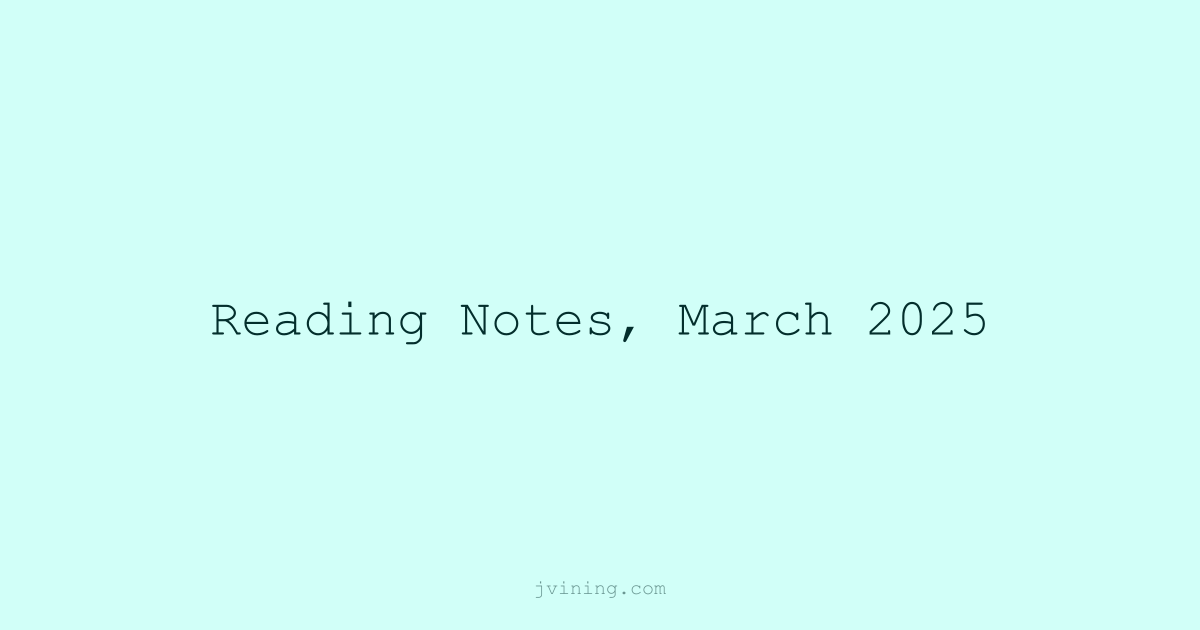
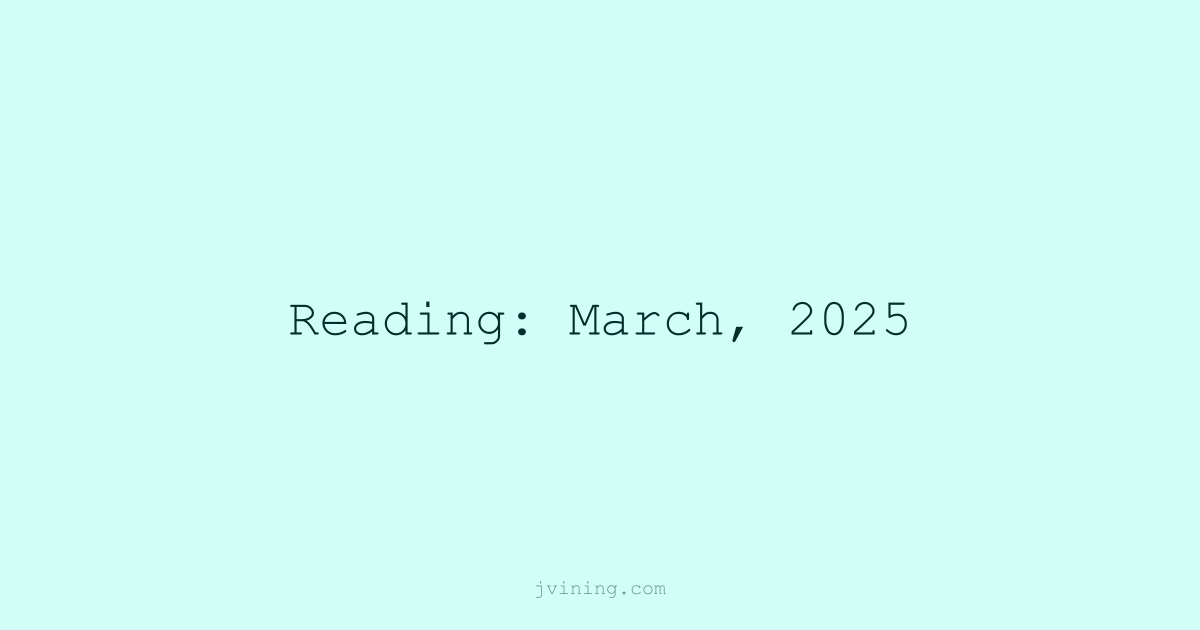
Update reading title format

Changed region(s): [[0.1542, 0.4825, 0.8325, 0.5429]]

diff --git a/_pages/index.html b/_pages/index.html
@@ -20,7 +20,7 @@ sitemap: false
     <table class="article-list">
         <tr>
             <td class="date-cell"><span class="date">8/30/26</span></td>
-            <td class="title-cell"><a href="reading/puritans.html">Reading Notes: Two Books on Puritans</a><br><small class="book-titles">The Puritans: A Transatlantic History, The Trials of Thomas Morton</small></td>
+            <td class="title-cell"><a href="reading/puritans.html">Reading: Two Books on Puritans</a><br><small class="book-titles">The Puritans: A Transatlantic History, The Trials of Thomas Morton</small></td>
         </tr>
         <tr>
             <td class="date-cell"><span class="date">4/19/26</span></td>
@@ -32,15 +32,15 @@ sitemap: false
         </tr>
         <tr>
             <td class="date-cell"><span class="date">1/8/26</span></td>
-            <td class="title-cell"><a href="reading/2025-06.html">June 2025</a><br><small class="book-titles">Essentialism, The House of Morgan, Tinker Tailor Soldier Spy</small></td>
+            <td class="title-cell"><a href="reading/2025-06.html">Reading: June, 2025</a><br><small class="book-titles">Essentialism, The House of Morgan, Tinker Tailor Soldier Spy</small></td>
         </tr>
         <tr>
             <td class="date-cell"><span class="date">12/7/25</span></td>
-            <td class="title-cell"><a href="reading/2025-05.html">May 2025</a><br><small class="book-titles">Milton Friedman, The Complacent Class, Call for the Dead, A Murder of Quality, The Spy Who Came In From The Cold, The Looking Glass War</small></td>
+            <td class="title-cell"><a href="reading/2025-05.html">Reading: May, 2025</a><br><small class="book-titles">Milton Friedman, The Complacent Class, Call for the Dead, A Murder of Quality, The Spy Who Came In From The Cold, The Looking Glass War</small></td>
         </tr>
         <tr>
             <td class="date-cell"><span class="date">9/19/25</span></td>
-            <td class="title-cell"><a href="reading/2025-04.html">April 2025</a><br><small class="book-titles">Oranges are Not the Only Fruit, Heart of a Dog, Days of Rage, Arsenals of Folly, The Cold War, A Perfect Spy</small></td>
+            <td class="title-cell"><a href="reading/2025-04.html">Reading: April, 2025</a><br><small class="book-titles">Oranges are Not the Only Fruit, Heart of a Dog, Days of Rage, Arsenals of Folly, The Cold War, A Perfect Spy</small></td>
         </tr>
         <tr>
             <td class="date-cell"><span class="date">9/16/25</span></td>
@@ -48,15 +48,15 @@ sitemap: false
         </tr>
         <tr>
             <td class="date-cell"><span class="date">4/26/25</span></td>
-            <td class="title-cell"><a href="reading/2025-03.html">March 2025</a><br><small class="book-titles">The Master and Margarita, The Future and Its Enemies, Abundance, Why Nothing Works, Bloodlands, Children of Men</small></td>
+            <td class="title-cell"><a href="reading/2025-03.html">Reading: March, 2025</a><br><small class="book-titles">The Master and Margarita, The Future and Its Enemies, Abundance, Why Nothing Works, Bloodlands, Children of Men</small></td>
         </tr>
         <tr>
             <td class="date-cell"><span class="date">3/4/25</span></td>
-            <td class="title-cell"><a href="reading/2025-02.html">February 2025</a><br><small class="book-titles">Those Who Leave and Those Who Stay, The Story of the Lost Child, Stalin Volume II, Characters</small></td>
+            <td class="title-cell"><a href="reading/2025-02.html">Reading: February, 2025</a><br><small class="book-titles">Those Who Leave and Those Who Stay, The Story of the Lost Child, Stalin Volume II, Characters</small></td>
         </tr>
         <tr>
             <td class="date-cell"><span class="date">2/4/25</span></td>
-            <td class="title-cell"><a href="reading/2025-01.html">January 2025</a><br><small class="book-titles">A Grief Observed, The Art of the Handwritten Note, Theatetus, My Brilliant Friend, The Story of a New Name, Open Socrates, Stalin Volume I</small></td>
+            <td class="title-cell"><a href="reading/2025-01.html">Reading: January, 2025</a><br><small class="book-titles">A Grief Observed, The Art of the Handwritten Note, Theatetus, My Brilliant Friend, The Story of a New Name, Open Socrates, Stalin Volume I</small></td>
         </tr>
         <tr>
             <td class="date-cell"><span class="date">1/5/24</span></td>

diff --git a/index.html b/index.html
@@ -16,7 +16,7 @@
     <table class="article-list">
         <tr>
             <td class="date-cell"><span class="date">8/30/26</span></td>
-            <td class="title-cell"><a href="reading/puritans.html">Reading Notes: Two Books on Puritans</a><br><small class="book-titles">The Puritans: A Transatlantic History, The Trials of Thomas Morton</small></td>
+            <td class="title-cell"><a href="reading/puritans.html">Reading: Two Books on Puritans</a><br><small class="book-titles">The Puritans: A Transatlantic History, The Trials of Thomas Morton</small></td>
         </tr>
         <tr>
             <td class="date-cell"><span class="date">4/19/26</span></td>
@@ -28,15 +28,15 @@
         </tr>
         <tr>
             <td class="date-cell"><span class="date">1/8/26</span></td>
-            <td class="title-cell"><a href="reading/2025-06.html">June 2025</a><br><small class="book-titles">Essentialism, The House of Morgan, Tinker Tailor Soldier Spy</small></td>
+            <td class="title-cell"><a href="reading/2025-06.html">Reading: June, 2025</a><br><small class="book-titles">Essentialism, The House of Morgan, Tinker Tailor Soldier Spy</small></td>
         </tr>
         <tr>
             <td class="date-cell"><span class="date">12/7/25</span></td>
-            <td class="title-cell"><a href="reading/2025-05.html">May 2025</a><br><small class="book-titles">Milton Friedman, The Complacent Class, Call for the Dead, A Murder of Quality, The Spy Who Came In From The Cold, The Looking Glass War</small></td>
+            <td class="title-cell"><a href="reading/2025-05.html">Reading: May, 2025</a><br><small class="book-titles">Milton Friedman, The Complacent Class, Call for the Dead, A Murder of Quality, The Spy Who Came In From The Cold, The Looking Glass War</small></td>
         </tr>
         <tr>
             <td class="date-cell"><span class="date">9/19/25</span></td>
-            <td class="title-cell"><a href="reading/2025-04.html">April 2025</a><br><small class="book-titles">Oranges are Not the Only Fruit, Heart of a Dog, Days of Rage, Arsenals of Folly, The Cold War, A Perfect Spy</small></td>
+            <td class="title-cell"><a href="reading/2025-04.html">Reading: April, 2025</a><br><small class="book-titles">Oranges are Not the Only Fruit, Heart of a Dog, Days of Rage, Arsenals of Folly, The Cold War, A Perfect Spy</small></td>
         </tr>
         <tr>
             <td class="date-cell"><span class="date">9/16/25</span></td>
@@ -44,15 +44,15 @@
         </tr>
         <tr>
             <td class="date-cell"><span class="date">4/26/25</span></td>
-            <td class="title-cell"><a href="reading/2025-03.html">March 2025</a><br><small class="book-titles">The Master and Margarita, The Future and Its Enemies, Abundance, Why Nothing Works, Bloodlands, Children of Men</small></td>
+            <td class="title-cell"><a href="reading/2025-03.html">Reading: March, 2025</a><br><small class="book-titles">The Master and Margarita, The Future and Its Enemies, Abundance, Why Nothing Works, Bloodlands, Children of Men</small></td>
         </tr>
         <tr>
             <td class="date-cell"><span class="date">3/4/25</span></td>
-            <td class="title-cell"><a href="reading/2025-02.html">February 2025</a><br><small class="book-titles">Those Who Leave and Those Who Stay, The Story of the Lost Child, Stalin Volume II, Characters</small></td>
+            <td class="title-cell"><a href="reading/2025-02.html">Reading: February, 2025</a><br><small class="book-titles">Those Who Leave and Those Who Stay, The Story of the Lost Child, Stalin Volume II, Characters</small></td>
         </tr>
         <tr>
             <td class="date-cell"><span class="date">2/4/25</span></td>
-            <td class="title-cell"><a href="reading/2025-01.html">January 2025</a><br><small class="book-titles">A Grief Observed, The Art of the Handwritten Note, Theatetus, My Brilliant Friend, The Story of a New Name, Open Socrates, Stalin Volume I</small></td>
+            <td class="title-cell"><a href="reading/2025-01.html">Reading: January, 2025</a><br><small class="book-titles">A Grief Observed, The Art of the Handwritten Note, Theatetus, My Brilliant Friend, The Story of a New Name, Open Socrates, Stalin Volume I</small></td>
         </tr>
         <tr>
             <td class="date-cell"><span class="date">1/5/24</span></td>

diff --git a/reading/2025-02.html b/reading/2025-02.html
@@ -1,11 +1,11 @@
 <html>
 <head>
 	<meta name="viewport" content="width=device-width, initial-scale=1">
-	<title>Reading Notes, February 2025</title>
+	<title>Reading: February, 2025</title>
 	<link rel="stylesheet" href="../style.css">
 	<link rel="alternate" type="application/rss+xml" title="John Vining" href="https://jvining.com/feed.xml">
 	
-	<meta property="og:title" content="Reading Notes, February 2025">
+	<meta property="og:title" content="Reading: February, 2025">
 	<meta property="og:type" content="article">
 	<meta property="og:url" content="https://jvining.com/reading/2025-02.html">
 	<meta property="og:image" content="https://jvining.com/og/2025-02.png">
@@ -26,7 +26,7 @@
 
 <div class="articletitle">
 	<h3 class="article-date">3/4/2025</h3>
-	<h3 id="title">Reading Notes, February 2025</h3>
+	<h3 id="title">Reading: February, 2025</h3>
 </div>
 
 <h4 id="elena-ferrante-those-who-leave-and-those-who-stay">Elena Ferrante, <em>Those Who Leave and Those Who Stay</em>.<sup id="fnref:1"><a href="#fn:1" class="footnote" rel="footnote" role="doc-noteref">1</a></sup></h4>

diff --git a/reading/2025-03.html b/reading/2025-03.html
@@ -1,11 +1,11 @@
 <html>
 <head>
 	<meta name="viewport" content="width=device-width, initial-scale=1">
-	<title>Reading Notes, March 2025</title>
+	<title>Reading: March, 2025</title>
 	<link rel="stylesheet" href="../style.css">
 	<link rel="alternate" type="application/rss+xml" title="John Vining" href="https://jvining.com/feed.xml">
 	
-	<meta property="og:title" content="Reading Notes, March 2025">
+	<meta property="og:title" content="Reading: March, 2025">
 	<meta property="og:type" content="article">
 	<meta property="og:url" content="https://jvining.com/reading/2025-03.html">
 	<meta property="og:image" content="https://jvining.com/og/2025-03.png">
@@ -26,7 +26,7 @@
 
 <div class="articletitle">
 	<h3 class="article-date">4/26/2025</h3>
-	<h3 id="title">Reading Notes, March 2025</h3>
+	<h3 id="title">Reading: March, 2025</h3>
 </div>
 
 <h4 id="mikhail-bulgakov-the-master-and-margarita">Mikhail Bulgakov, <em>The Master and Margarita</em>.<sup id="fnref:1"><a href="#fn:1" class="footnote" rel="footnote" role="doc-noteref">1</a></sup></h4>

diff --git a/reading/puritans.html b/reading/puritans.html
@@ -1,11 +1,11 @@
 <html>
 <head>
 	<meta name="viewport" content="width=device-width, initial-scale=1">
-	<title>Reading Notes: Two Books on Puritans</title>
+	<title>Reading: Two Books on Puritans</title>
 	<link rel="stylesheet" href="../style.css">
 	<link rel="alternate" type="application/rss+xml" title="John Vining" href="https://jvining.com/feed.xml">
 	
-	<meta property="og:title" content="Reading Notes: Two Books on Puritans">
+	<meta property="og:title" content="Reading: Two Books on Puritans">
 	<meta property="og:type" content="article">
 	<meta property="og:url" content="https://jvining.com/reading/puritans.html">
 	<meta property="og:image" content="https://jvining.com/og/puritans.png">
@@ -26,7 +26,7 @@
 
 <div class="articletitle">
 	<h3 class="article-date">8/30/26</h3>
-	<h3 id="puritans">Reading Notes: Two Books on Puritans</h3>
+	<h3 id="puritans">Reading: Two Books on Puritans</h3>
 </div>
 
 <h3 id="david-d-hall-the-puritans-a-transatlantic-history">David D. Hall, <em>The Puritans: A Transatlantic History</em></h3>

diff --git a/reading/2025-06.html b/reading/2025-06.html
@@ -1,11 +1,11 @@
 <html>
 <head>
 	<meta name="viewport" content="width=device-width, initial-scale=1">
-	<title>Reading Notes, June 2025</title>
+	<title>Reading: June, 2025</title>
 	<link rel="stylesheet" href="../style.css">
 	<link rel="alternate" type="application/rss+xml" title="John Vining" href="https://jvining.com/feed.xml">
 	
-	<meta property="og:title" content="Reading Notes, June 2025">
+	<meta property="og:title" content="Reading: June, 2025">
 	<meta property="og:type" content="article">
 	<meta property="og:url" content="https://jvining.com/reading/2025-06.html">
 	<meta property="og:image" content="https://jvining.com/og/2025-06.png">
@@ -26,7 +26,7 @@
 
 <div class="articletitle">
 	<h3 class="article-date">1/8/26</h3>
-	<h3 id="title">Reading Notes, June 2025</h3>
+	<h3 id="title">Reading: June, 2025</h3>
 </div>
 
 <h4 id="greg-mckeown-essentialism-the-disciplined-pursuit-of-less">Greg Mckeown, <em>Essentialism: The Disciplined Pursuit of Less</em>.</h4>

diff --git a/reading/2025-04.html b/reading/2025-04.html
@@ -1,11 +1,11 @@
 <html>
 <head>
 	<meta name="viewport" content="width=device-width, initial-scale=1">
-	<title>Reading Notes, April 2025</title>
+	<title>Reading: April, 2025</title>
 	<link rel="stylesheet" href="../style.css">
 	<link rel="alternate" type="application/rss+xml" title="John Vining" href="https://jvining.com/feed.xml">
 	
-	<meta property="og:title" content="Reading Notes, April 2025">
+	<meta property="og:title" content="Reading: April, 2025">
 	<meta property="og:type" content="article">
 	<meta property="og:url" content="https://jvining.com/reading/2025-04.html">
 	<meta property="og:image" content="https://jvining.com/og/2025-04.png">
@@ -26,7 +26,7 @@
 
 <div class="articletitle">
 	<h3 class="article-date">9/19/2025</h3>
-	<h3 id="title">Reading Notes, April 2025</h3>
+	<h3 id="title">Reading: April, 2025</h3>
 </div>
 
 <h4 id="jeanette-winterson-oranges-are-not-the-only-fruit">Jeanette Winterson, <em>Oranges are Not the Only Fruit</em>.</h4>

diff --git a/reading/2025-05.html b/reading/2025-05.html
@@ -1,11 +1,11 @@
 <html>
 <head>
 	<meta name="viewport" content="width=device-width, initial-scale=1">
-	<title>Reading Notes, May 2025</title>
+	<title>Reading: May, 2025</title>
 	<link rel="stylesheet" href="../style.css">
 	<link rel="alternate" type="application/rss+xml" title="John Vining" href="https://jvining.com/feed.xml">
 	
-	<meta property="og:title" content="Reading Notes, May 2025">
+	<meta property="og:title" content="Reading: May, 2025">
 	<meta property="og:type" content="article">
 	<meta property="og:url" content="https://jvining.com/reading/2025-05.html">
 	<meta property="og:image" content="https://jvining.com/og/2025-05.png">
@@ -26,7 +26,7 @@
 
 <div class="articletitle">
 	<h3 class="article-date">12/7/25</h3>
-	<h3 id="title">Reading Notes, May 2025</h3>
+	<h3 id="title">Reading: May, 2025</h3>
 </div>
 
 <h4 id="jennifer-burns-milton-friedman-the-last-conservative">Jennifer Burns, <em>Milton Friedman: The Last Conservative</em>.</h4>

diff --git a/reading/2025-01.html b/reading/2025-01.html
@@ -1,11 +1,11 @@
 <html>
 <head>
 	<meta name="viewport" content="width=device-width, initial-scale=1">
-	<title>Reading Notes, January 2025</title>
+	<title>Reading: January, 2025</title>
 	<link rel="stylesheet" href="../style.css">
 	<link rel="alternate" type="application/rss+xml" title="John Vining" href="https://jvining.com/feed.xml">
 	
-	<meta property="og:title" content="Reading Notes, January 2025">
+	<meta property="og:title" content="Reading: January, 2025">
 	<meta property="og:type" content="article">
 	<meta property="og:url" content="https://jvining.com/reading/2025-01.html">
 	<meta property="og:image" content="https://jvining.com/og/2025-01.png">
@@ -26,7 +26,7 @@
 
 <div class="articletitle">
 	<h3 class="article-date">2/4/2025</h3>
-	<h3 id="title">Reading Notes, January 2025</h3>
+	<h3 id="title">Reading: January, 2025</h3>
 </div>
 
 <h4 id="c-s-lewis-a-grief-observed">C. S. Lewis, <em>A Grief Observed</em>.</h4>

diff --git a/_reading/puritans.md b/_reading/puritans.md
@@ -1,6 +1,6 @@
 ---
 layout: article
-title: "Reading Notes: Two Books on Puritans"
+title: "Reading: Two Books on Puritans"
 slug: puritans
 display_date: 8/30/26
 date: 2026-08-30

diff --git a/_reading/2025-02.md b/_reading/2025-02.md
@@ -1,6 +1,6 @@
 ---
 layout: article
-title: Reading Notes, February 2025
+title: "Reading: February, 2025"
 slug: title
 display_date: 3/4/2025
 date: 2025-03-04

diff --git a/_reading/2025-01.md b/_reading/2025-01.md
@@ -1,6 +1,6 @@
 ---
 layout: article
-title: Reading Notes, January 2025
+title: "Reading: January, 2025"
 slug: title
 display_date: 2/4/2025
 date: 2025-02-04
